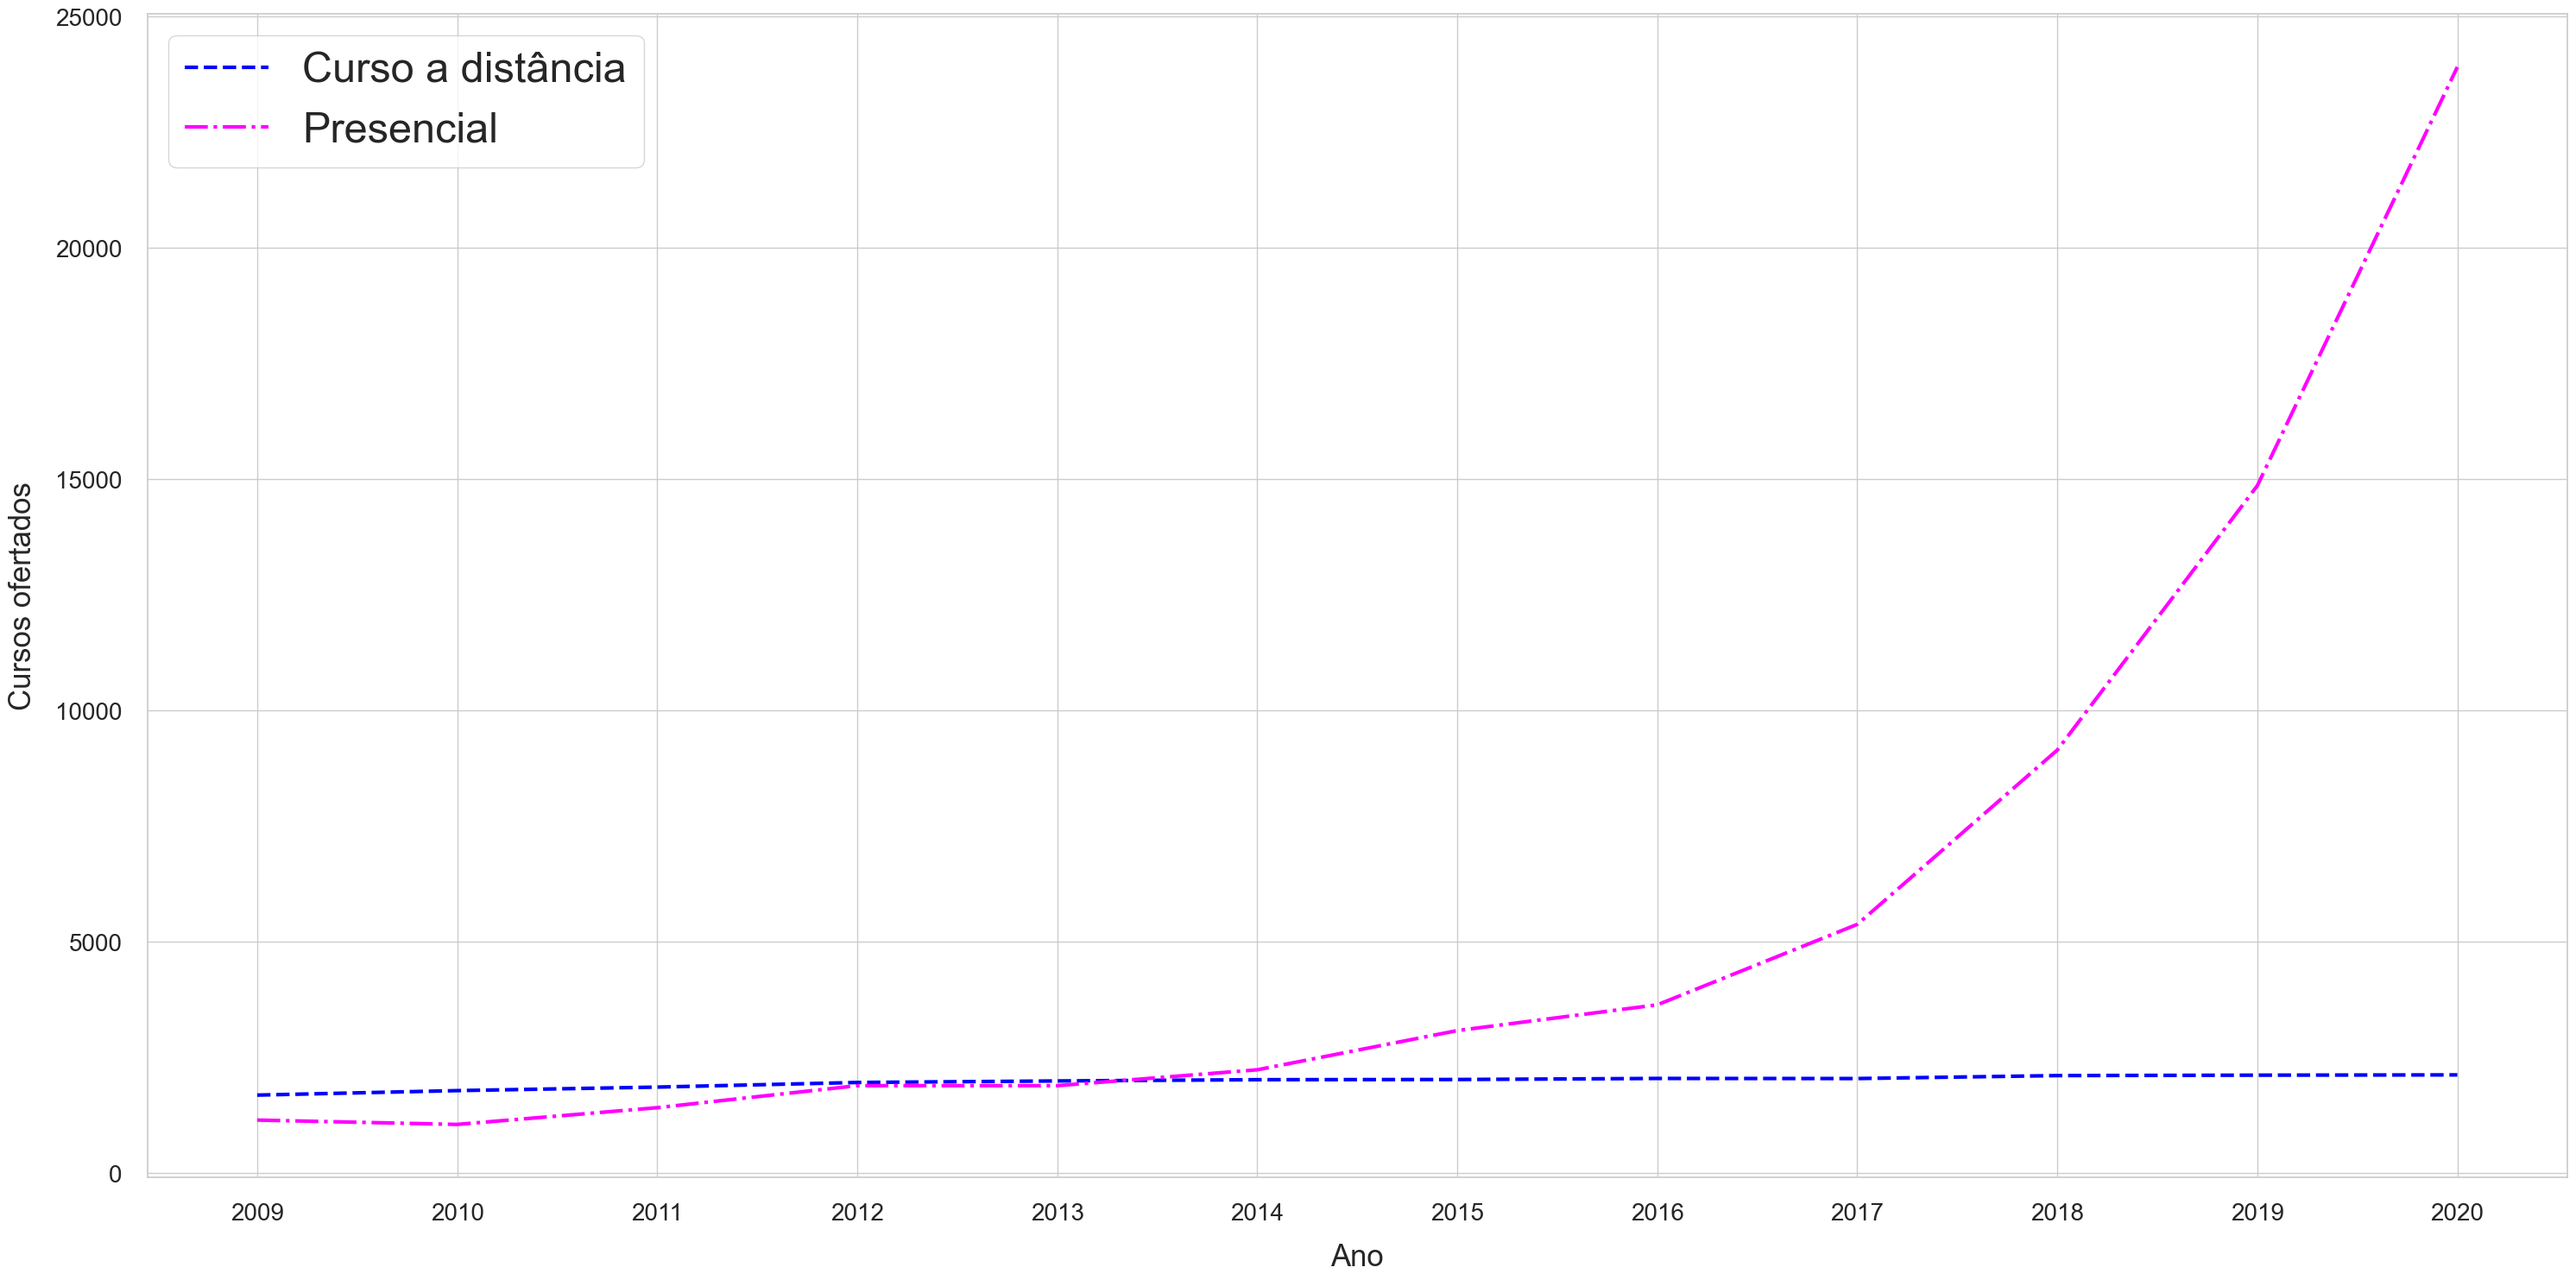
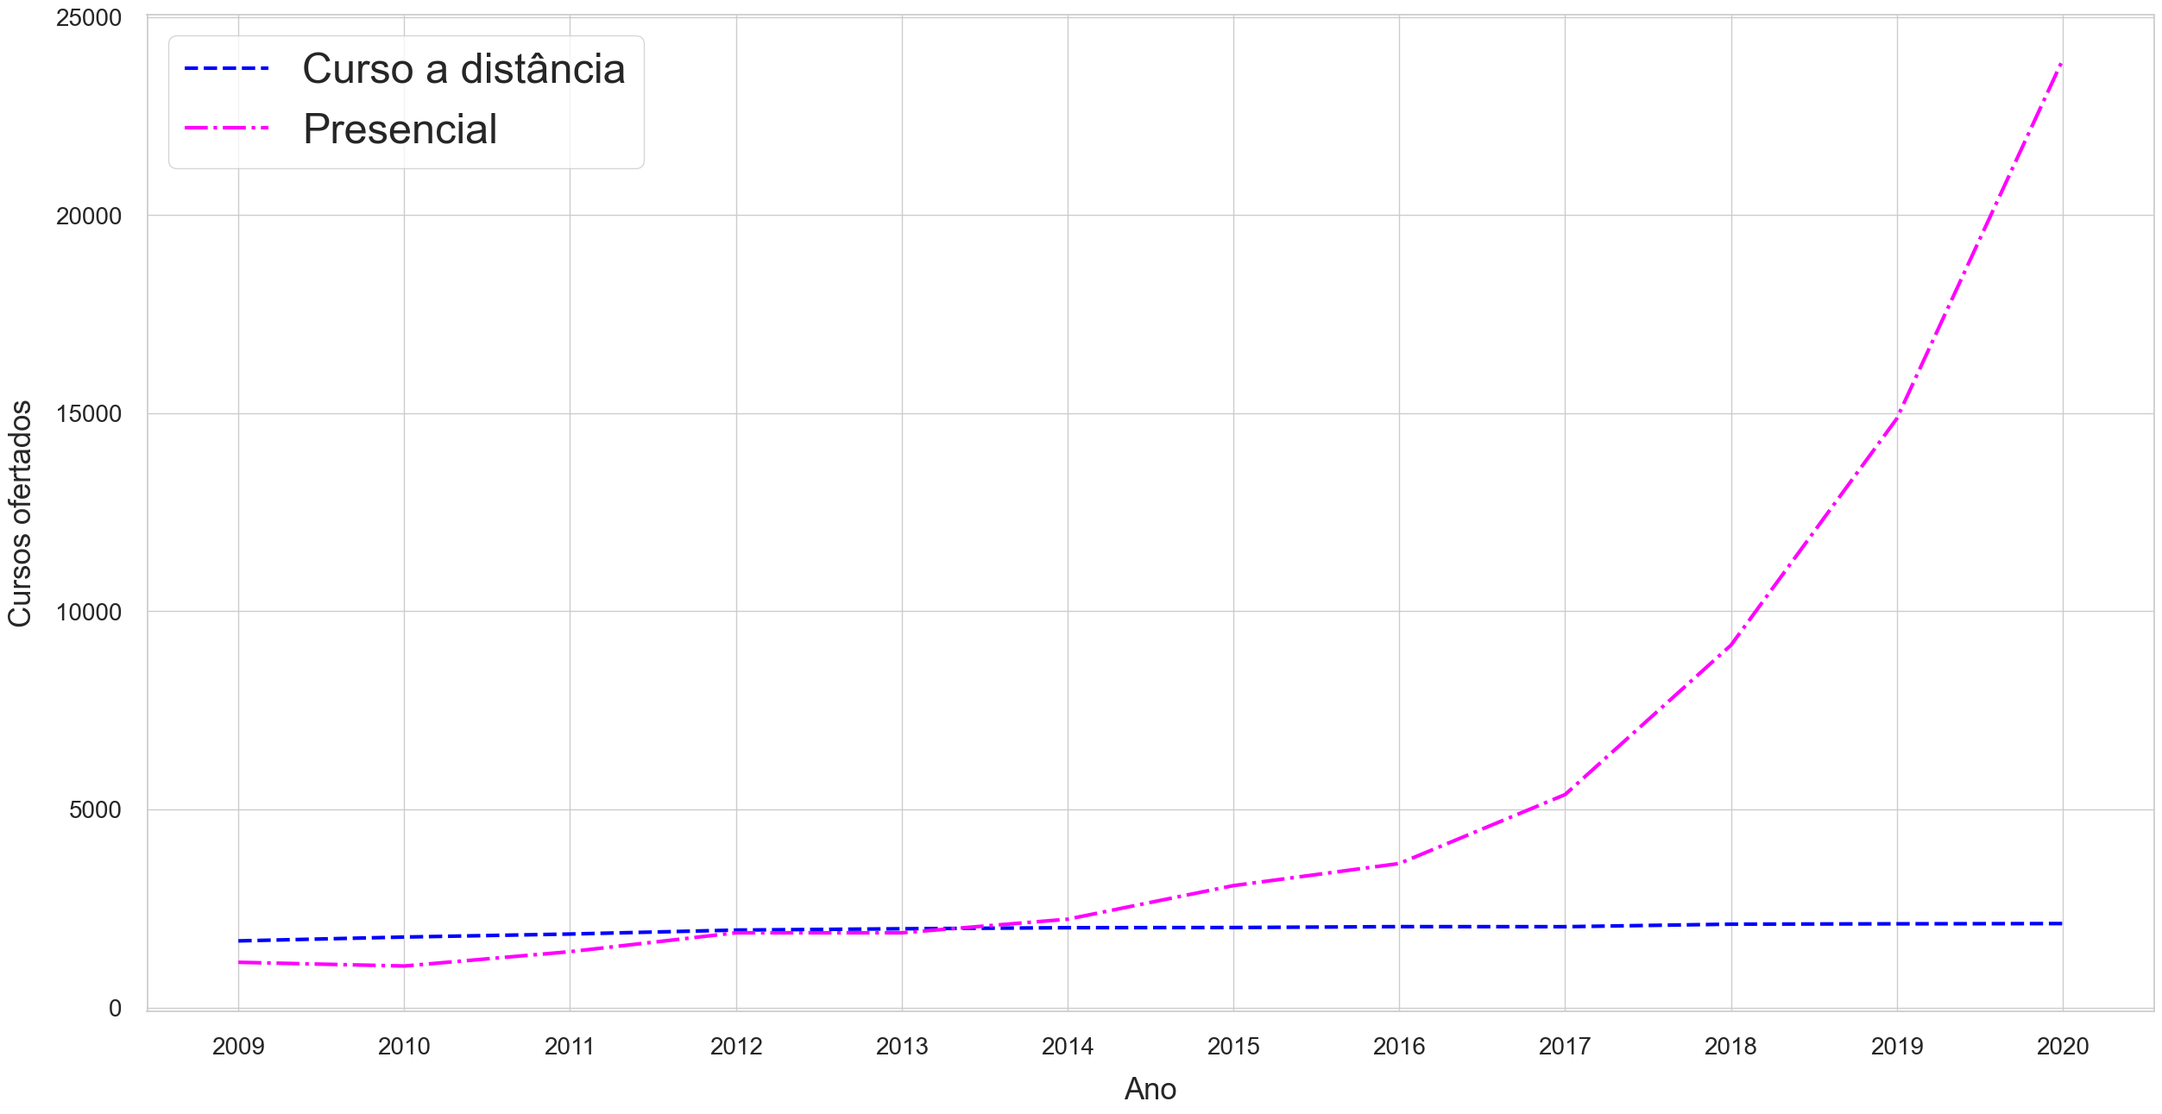
Up

diff --git a/src/layouts/dashboard/components/OrdersOverview/index.js b/src/layouts/dashboard/components/OrdersOverview/index.js
@@ -8,81 +8,82 @@ function OrdersOverview() {
     <Card sx={{ height: "100%" }}>
       <MDBox pt={3} px={3}>
         <MDTypography variant="h6" fontWeight="medium">
-          Timeline
+          Linha do tempo
         </MDTypography>
         <MDBox mt={0} mb={2}>
           <MDTypography variant="button" color="text" fontWeight="regular">
             <MDTypography variant="button" color="text" fontWeight="medium" />
-            {" algo a ser colocado aqui?"}
+            Algo a ser colocado aqui?
           </MDTypography>
         </MDBox>
       </MDBox>
       <MDBox p={2}>
         <TimelineItem
           color="success"
-          icon="payment"
+          icon="add"
           title="2020 - Seis novos cursos ofertados"
           dateTime="Agrocomputação, Ciência de dados, Computação e TIC* em biociências e saúde, Criação digital, Inteligência artificial, Internet das coisas"
         />
         <TimelineItem
-          color="primary"
-          icon="school"
+          color="info"
+          icon="sync_alt"
           title="2019 - Um curso volta a ser ofertado também na modalidade Tecnológico"
           dateTime="Jogos digitais"
         />
         <TimelineItem
           color="success"
-          icon="payment"
+          icon="add"
           title="2018 - Novo curso ofertado"
           dateTime="Defesa cibernética"
         />
         <TimelineItem
-          color="primary"
-          icon="school"
+          color="success"
+          icon="science"
           title="2017 - Um curso passa a ser ofertado também na modalidade Tecnológico"
           dateTime="Programas interdisciplinares abrangendo computação e TIC*"
         />
         <TimelineItem
-          color="primary"
+          color="error"
           icon="school"
           title="2015 - Um curso deixa de ser ofertado no grau Bacharelado"
           dateTime="Sistemas para internet"
         />
         <TimelineItem
           color="success"
-          icon="payment"
+          icon="add"
           title="2013 - Novo curso ofertado"
           dateTime="Sistemas embarcados"
         />
         <TimelineItem
-          color="primary"
+          color="error"
           icon="school"
-          title="2010 - Engenharia da computação (DCN) deixa de ser ofertada no grau Tecnológico"
+          title="2010 - Um curso deixa de ser ofertado no grau Tecnológico"
+          dateTime="Engenharia da computação (DCN)"
+        />
+        <TimelineItem
+          color="error"
+          icon="menu_book"
+          title="2010 - Nenhum curso é ofertado no grau de Licenciatura"
           dateTime="E assim permanece até os dias atuais"
         />
+
         <TimelineItem
-          color="success"
-          icon="payment"
-          title="2010 - Nenhum curso é ofertado no grau de licenciatura"
-          dateTime="E assim permanece até os dias atuais"
-        />
-        <TimelineItem
-          color="success"
-          icon="payment"
-          title="2009 - Primeiro ano de coleta dos dados, totalizando 11 cursos"
-          dateTime="Banco de dados, Ciência da computação, Engenharia de computação (DCN Computação), Engenharia de software, Gestão da tecnologia da informação, Jogos digitais, Programas interdisciplinares abrangendo computação e TIC*, Redes de computadores, Segurança da informação, Sistemas de informação, "
-        />
-        <TimelineItem
-          color="primary"
-          icon="school"
+          color="warning"
+          icon="menu_book"
           title="2009 - Apenas um curso oferta o grau de Licenciatura"
           dateTime="Sistemas de informação"
         />
         <TimelineItem
-          color="primary"
+          color="error"
           icon="school"
           title="2010 - Um curso deixa de ser ofertada no grau Bacharelado"
           dateTime="Jogos digitais"
+        />
+        <TimelineItem
+          color="primary"
+          icon="bar_chart"
+          title="2009 - Primeiro ano de coleta dos dados, totalizando 11 cursos"
+          dateTime="Banco de dados, Ciência da computação, Engenharia de computação (DCN Computação), Engenharia de software, Gestão da tecnologia da informação, Jogos digitais, Programas interdisciplinares abrangendo computação e TIC*, Redes de computadores, Segurança da informação, Sistemas de informação, "
           lastItem
         />
       </MDBox>

diff --git a/src/examples/Charts/BarCharts/ReportsBarChartModalidade/index.js b/src/examples/Charts/BarCharts/ReportsBarChartModalidade/index.js
@@ -1,17 +1,11 @@
-import Chart2 from "assets/images/charts/ano_ofertas_modalidade.png";
-
-// import { useMemo } from "react";
+// import Chart from "assets/images/charts/ano_ofertas_modalidade.png";
+import Chart from "assets/images/charts/ano_oferta_modalidade.svg";
 import PropTypes from "prop-types";
-// import { Bar } from "react-chartjs-2";
 import Card from "@mui/material/Card";
-// import Divider from "@mui/material/Divider";
-// import Icon from "@mui/material/Icon";
 import MDBox from "components/MDBox";
 import MDTypography from "components/MDTypography";
-// import configs from "examples/Charts/BarCharts/ReportsBarChartModalidade/configs";
 
 function ReportsBarChartModalidade({ title, description }) {
-  // const { data, options } = configs(chart.labels || [], chart.datasets || {});
   const imgStyle = {
     height: "50%",
     width: "100%",
@@ -21,25 +15,8 @@ function ReportsBarChartModalidade({ title, description }) {
     <Card sx={{ height: "100%" }}>
       <MDBox padding="1rem">
         <div className="container">
-          <img style={imgStyle} src={Chart2} alt="" />
+          <img style={imgStyle} src={Chart} alt="" />
         </div>
-        {/* {useMemo(
-          () => (
-            <MDBox
-              variant="gradient"
-              bgColor={color}
-              borderRadius="lg"
-              coloredShadow={color}
-              py={2}
-              pr={0.5}
-              mt={-5}
-              height="12.5rem"
-            >
-              <Bar data={data} options={options} />
-            </MDBox>
-          ),
-          [chart, color]
-        )} */}
         <MDBox pt={3} pb={1} px={1}>
           <MDTypography variant="h6" textTransform="capitalize">
             {title}
@@ -53,19 +30,13 @@ function ReportsBarChartModalidade({ title, description }) {
   );
 }
 
-// Setting default values for the props of ReportsBarChart
 ReportsBarChartModalidade.defaultProps = {
-  // color: "dark",
   description: "",
 };
 
-// Typechecking props for the ReportsBarChart
 ReportsBarChartModalidade.propTypes = {
-  // color: PropTypes.oneOf(["primary", "secondary", "info", "success", "warning", "error", "dark"]),
   title: PropTypes.string.isRequired,
   description: PropTypes.oneOfType([PropTypes.string, PropTypes.node]),
-  // date: PropTypes.string.isRequired,
-  // chart: PropTypes.objectOf(PropTypes.oneOfType([PropTypes.array, PropTypes.object])).isRequired,
 };
 
 export default ReportsBarChartModalidade;

diff --git a/src/layouts/dashboard/index.js b/src/layouts/dashboard/index.js
@@ -13,7 +13,7 @@ function Dashboard() {
     <DashboardLayout>
       <MDBox py={4.5}>
         <Grid container spacing={3}>
-          <Grid item xs={12} md={6} lg={3}>
+          <Grid item xs={1} md={6} lg={3}>
             <MDBox mb={1.5}>
               <ComplexStatisticsCard
                 color="dark"
@@ -28,7 +28,7 @@ function Dashboard() {
               />
             </MDBox>
           </Grid>
-          <Grid item xs={12} md={6} lg={3}>
+          <Grid item xs={1} md={6} lg={3}>
             <MDBox mb={1.5}>
               <ComplexStatisticsCard
                 icon="leaderboard"
@@ -42,7 +42,7 @@ function Dashboard() {
               />
             </MDBox>
           </Grid>
-          <Grid item xs={12} md={6} lg={3}>
+          <Grid item xs={1} md={6} lg={3}>
             <MDBox mb={1.5}>
               <ComplexStatisticsCard
                 color="success"
@@ -57,7 +57,7 @@ function Dashboard() {
               />
             </MDBox>
           </Grid>
-          <Grid item xs={12} md={6} lg={3}>
+          <Grid item xs={1} md={6} lg={3}>
             <MDBox mb={1.5}>
               <ComplexStatisticsCard
                 color="primary"
@@ -74,8 +74,8 @@ function Dashboard() {
           </Grid>
         </Grid>
         <MDBox mt={4.5}>
-          <Grid container spacing={133}>
-            <Grid item xs={26} md={20} lg={26}>
+          <Grid container spacing={12}>
+            <Grid item xs={1} md={8} lg={12}>
               {/* linha abaixo:  aumenta distancia vertical com o próximo elemento */}
               <MDBox mb={4.5}>
                 <ReportsBarChart

diff --git a/src/layouts/billing/index.js b/src/layouts/billing/index.js
@@ -3,7 +3,8 @@ import MDBox from "components/MDBox";
 import DashboardLayout from "examples/LayoutContainers/DashboardLayout";
 import Footer from "examples/Footer";
 import ComplexStatisticsCard from "examples/Cards/StatisticsCards/ComplexStatisticsCard";
-import ChartOne from "./chartOne";
+// import ChartOne from "./chartOne";
+import ReportsBarChartModalidade from "examples/Charts/BarCharts/ReportsBarChartModalidade";
 
 function Billing() {
   return (
@@ -73,8 +74,11 @@ function Billing() {
         <MDBox mt={4.5}>
           <Grid container spacing={133}>
             <Grid item xs={26} md={20} lg={26}>
-              <MDBox mb={4.5}>
+              {/* <MDBox mb={4.5}>
                 <ChartOne title="some title" description="some description" />
+              </MDBox> */}
+              <MDBox mb={4.5}>
+                <ReportsBarChartModalidade title="some title" description="some description" />
               </MDBox>
             </Grid>
           </Grid>

diff --git a/src/components/MDTypography/index.js b/src/components/MDTypography/index.js
@@ -1,27 +1,6 @@
-/**
-=========================================================
-* Material Dashboard 2 React - v2.1.0
-=========================================================
-
-* Product Page: https://www.creative-tim.com/product/material-dashboard-react
-* Copyright 2022 Creative Tim (https://www.creative-tim.com)
-
-Coded by www.creative-tim.com
-
- =========================================================
-
-* The above copyright notice and this permission notice shall be included in all copies or substantial portions of the Software.
-*/
-
 import { forwardRef } from "react";
-
-// prop-types is a library for typechecking of props
 import PropTypes from "prop-types";
-
-// Custom styles for MDTypography
 import MDTypographyRoot from "components/MDTypography/MDTypographyRoot";
-
-// Material Dashboard 2 React contexts
 import { useMaterialUIController } from "context";
 
 const MDTypography = forwardRef(

diff --git a/src/layouts/billing/chartOne.js b/src/layouts/billing/chartOne.js
@@ -1,6 +1,4 @@
-// import Chart from "assets/images/charts/ano_ofertas_regioes.png";
-import Chart2 from "assets/images/charts/ano_ofertas_regioes.svg";
-
+import Chart from "assets/images/charts/ano_ofertas_regioes.png";
 import PropTypes from "prop-types";
 import Card from "@mui/material/Card";
 import MDBox from "components/MDBox";
@@ -16,7 +14,7 @@ function ChartOne({ title, description }) {
     <Card sx={{ height: "100%" }}>
       <MDBox padding="1rem">
         <div className="container">
-          <img style={imgStyle} src={Chart2} alt="" />
+          <img style={imgStyle} src={Chart} alt="" />
         </div>
         <MDBox pt={3} pb={1} px={1}>
           <MDTypography variant="h6" textTransform="capitalize">
